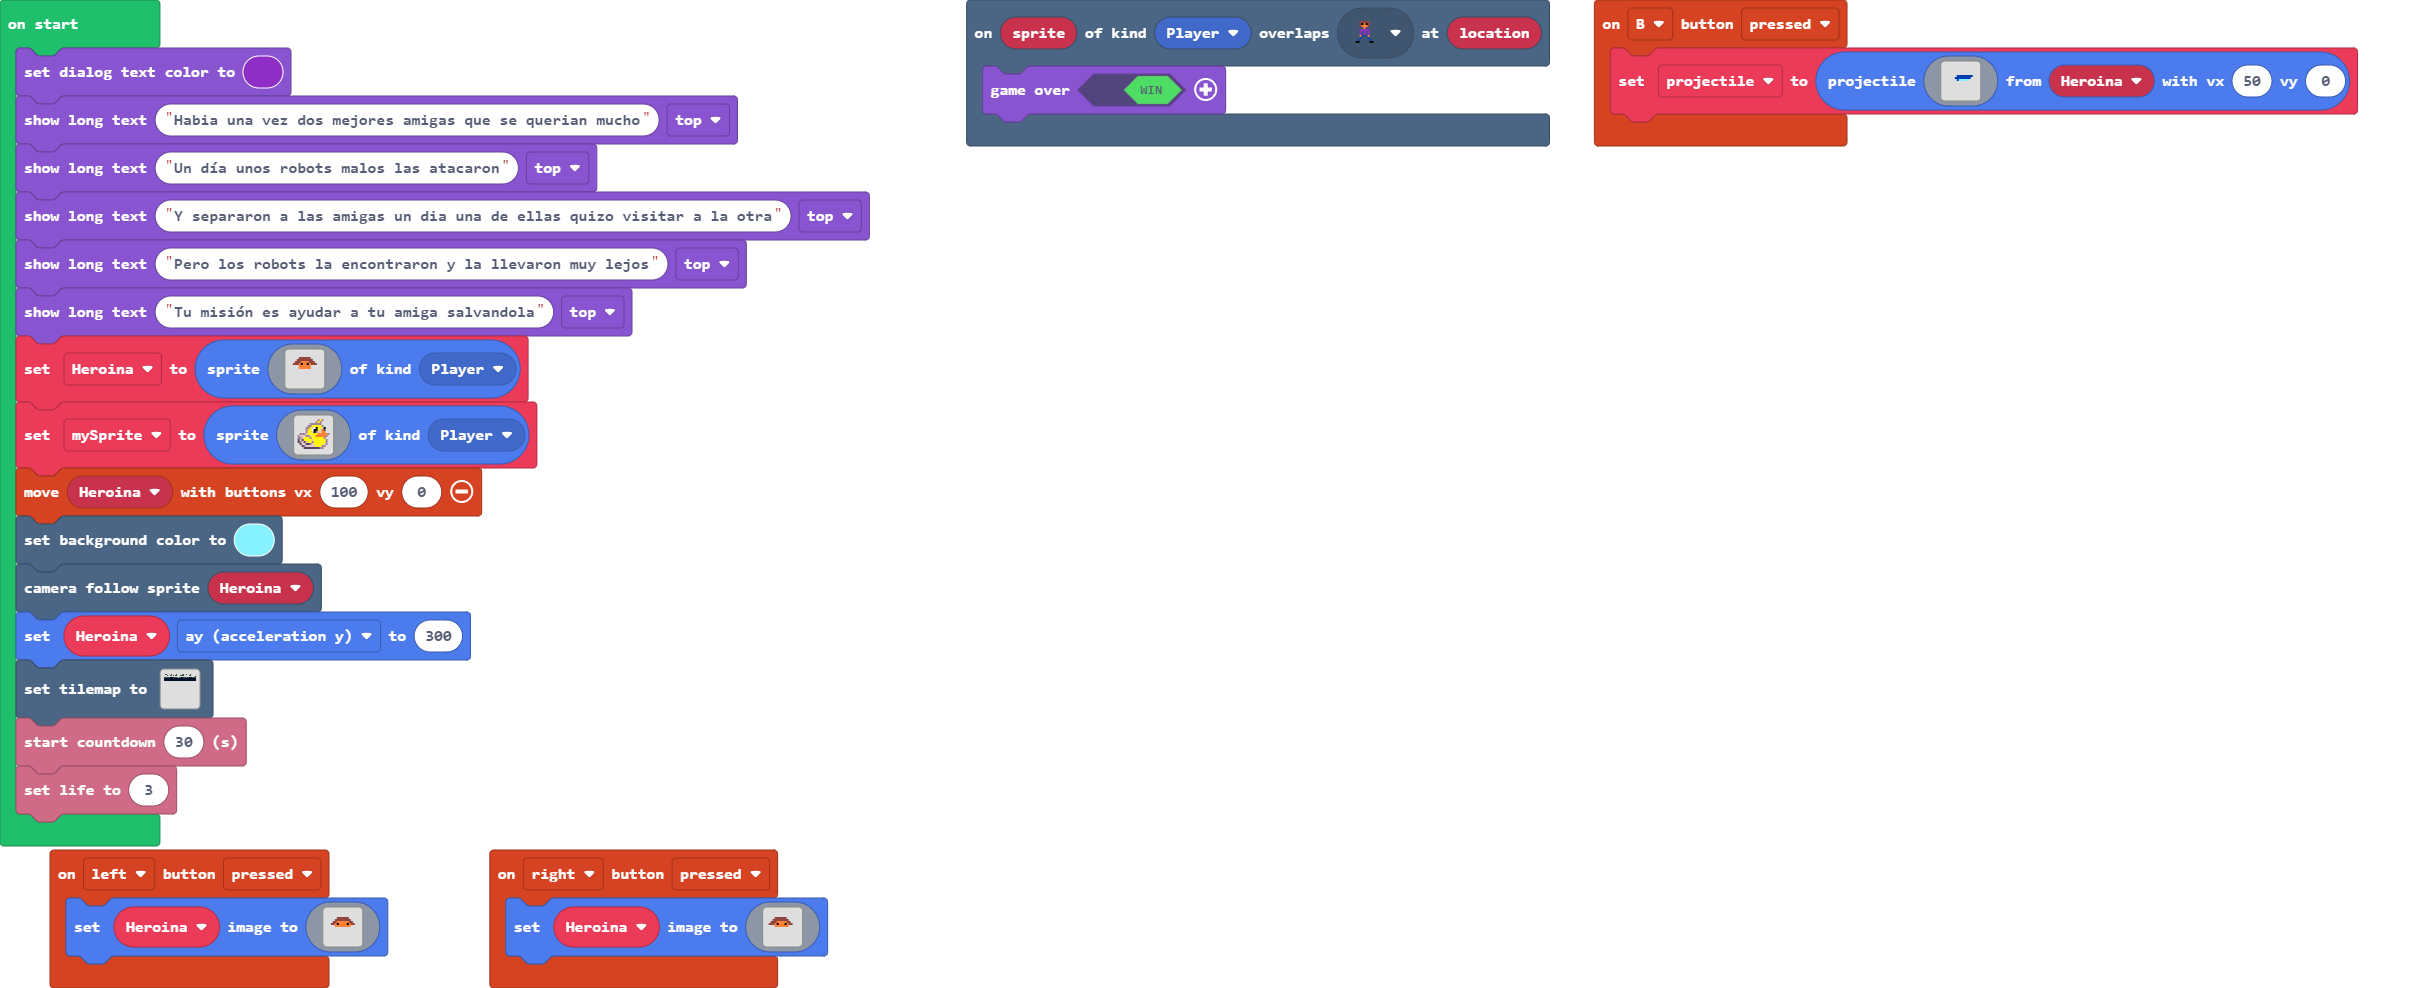
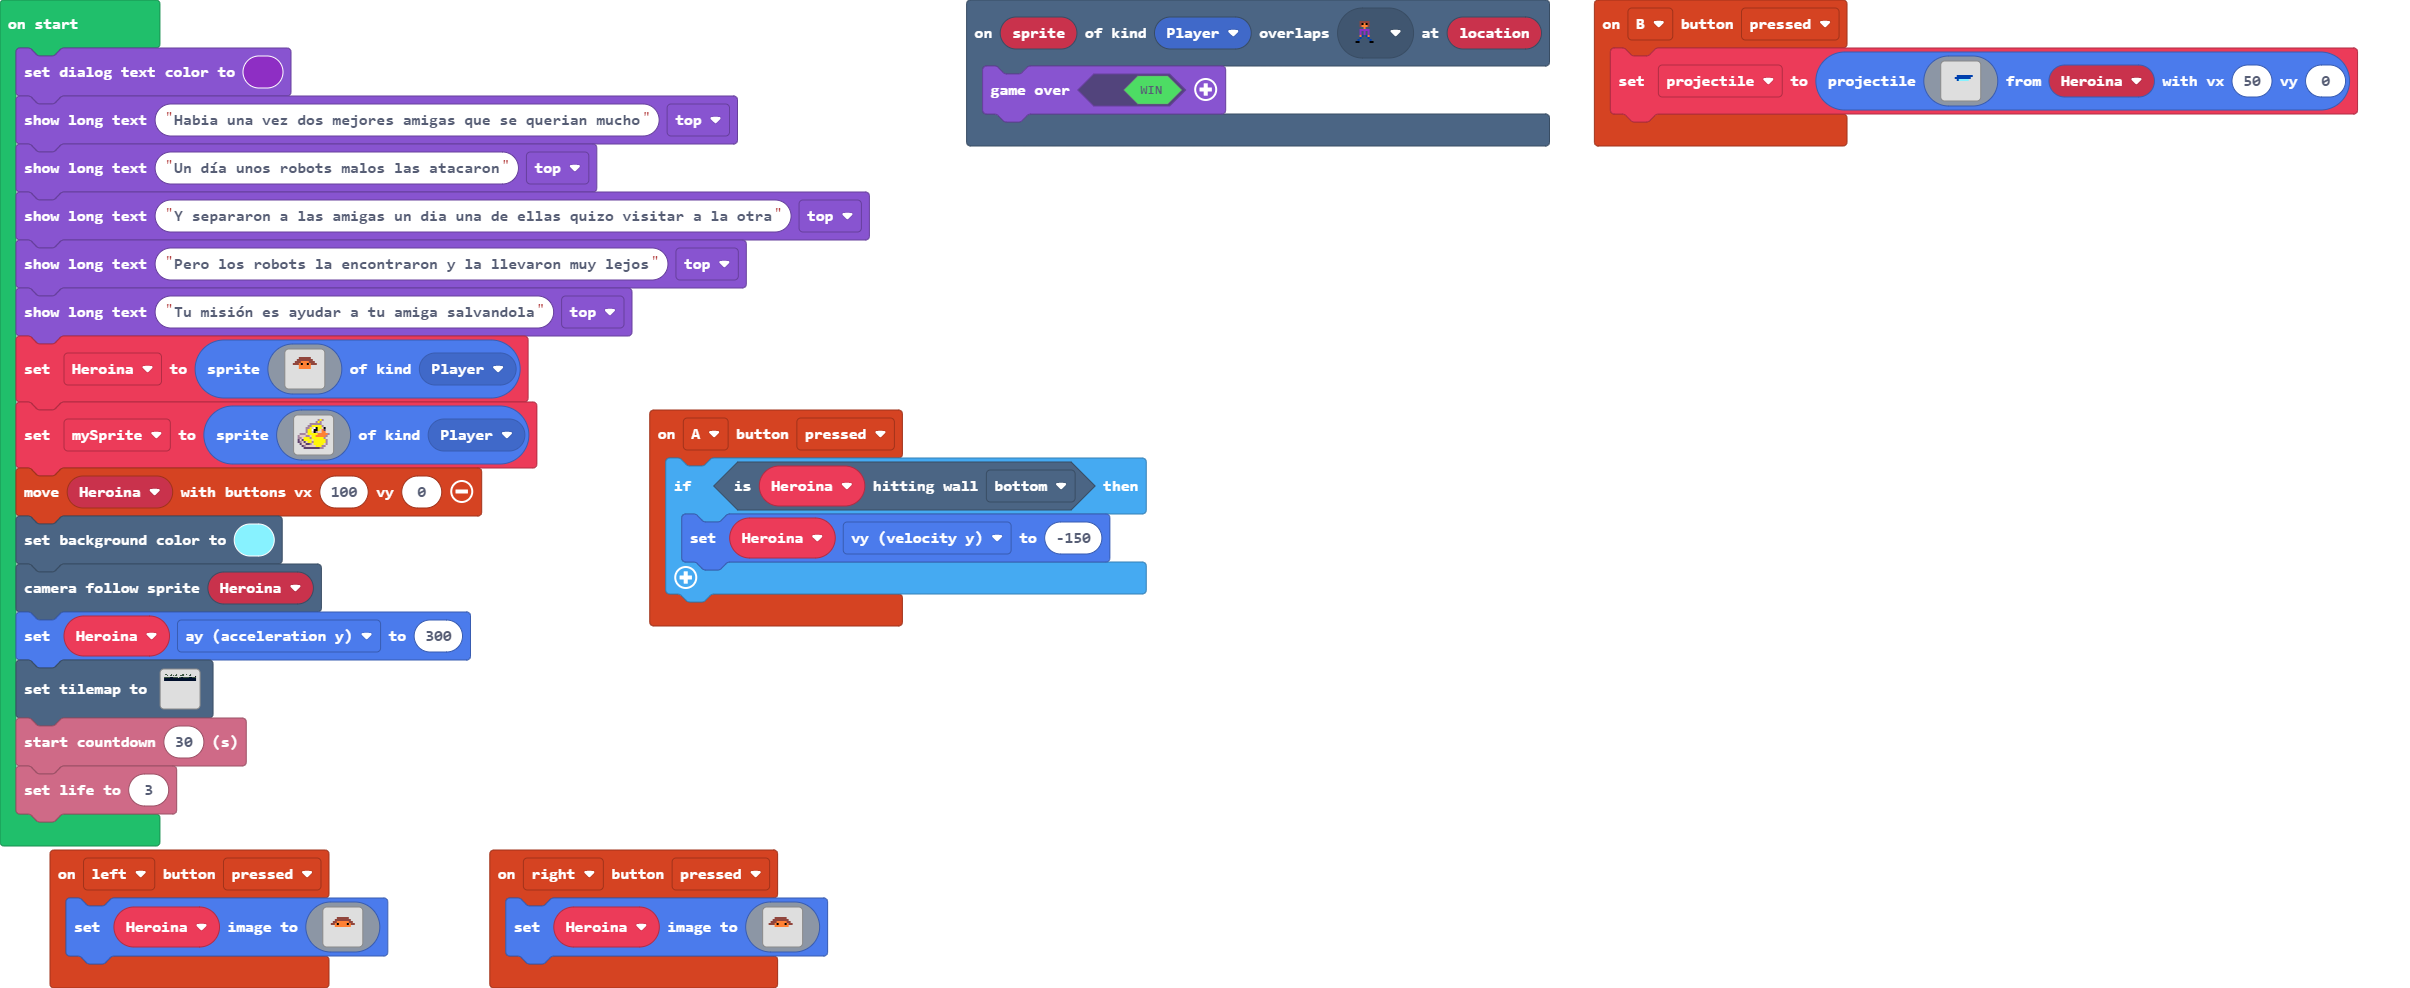
Agregue velocid -150

Changed region(s): [[0.249, 0.3947, 0.4979, 0.6377]]

diff --git a/main.ts b/main.ts
@@ -21,6 +21,11 @@ controller.B.onEvent(ControllerButtonEvent.Pressed, function () {
         . . . . . . . . . . . . . . . . 
         `, Heroina, 50, 0)
 })
+controller.A.onEvent(ControllerButtonEvent.Pressed, function () {
+    if (Heroina.isHittingTile(CollisionDirection.Bottom)) {
+        Heroina.vy = -150
+    }
+})
 controller.left.onEvent(ControllerButtonEvent.Pressed, function () {
     Heroina.setImage(img`
         . . . . . . . . . . . . . . . . 
